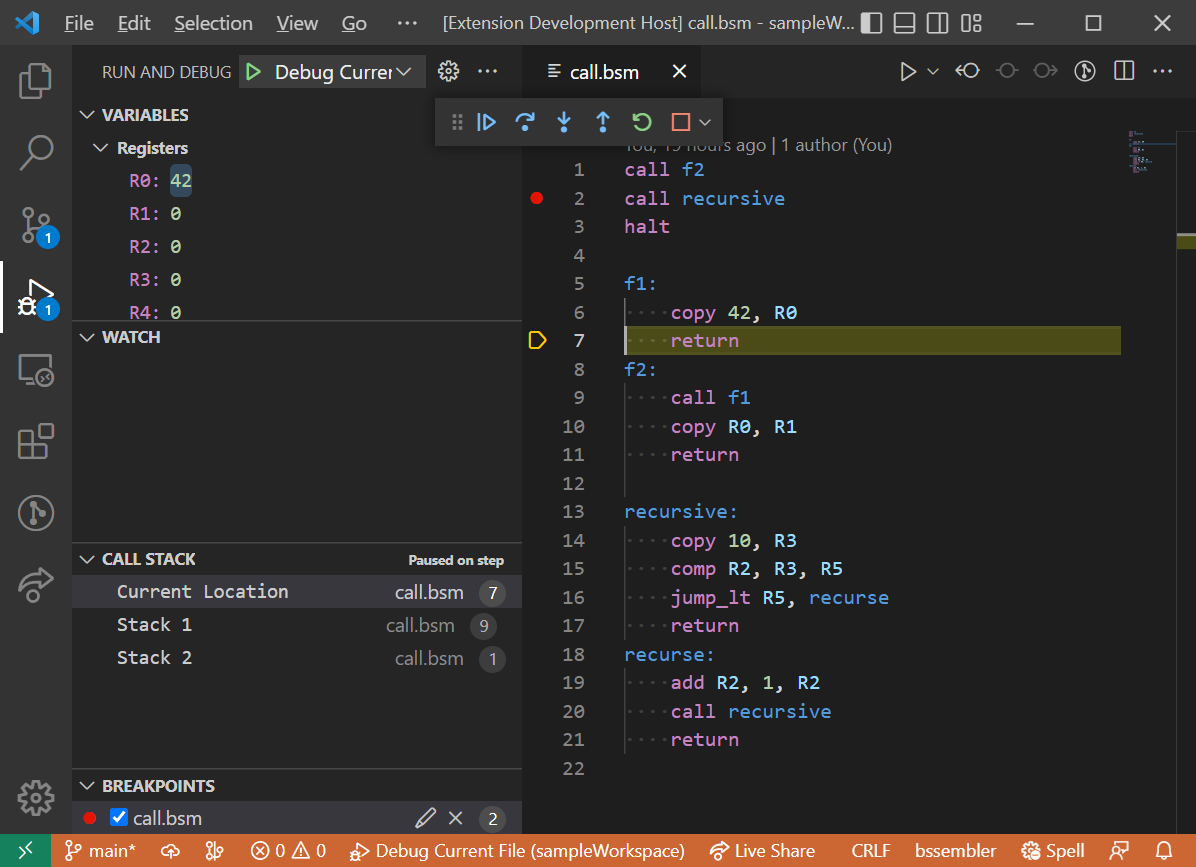
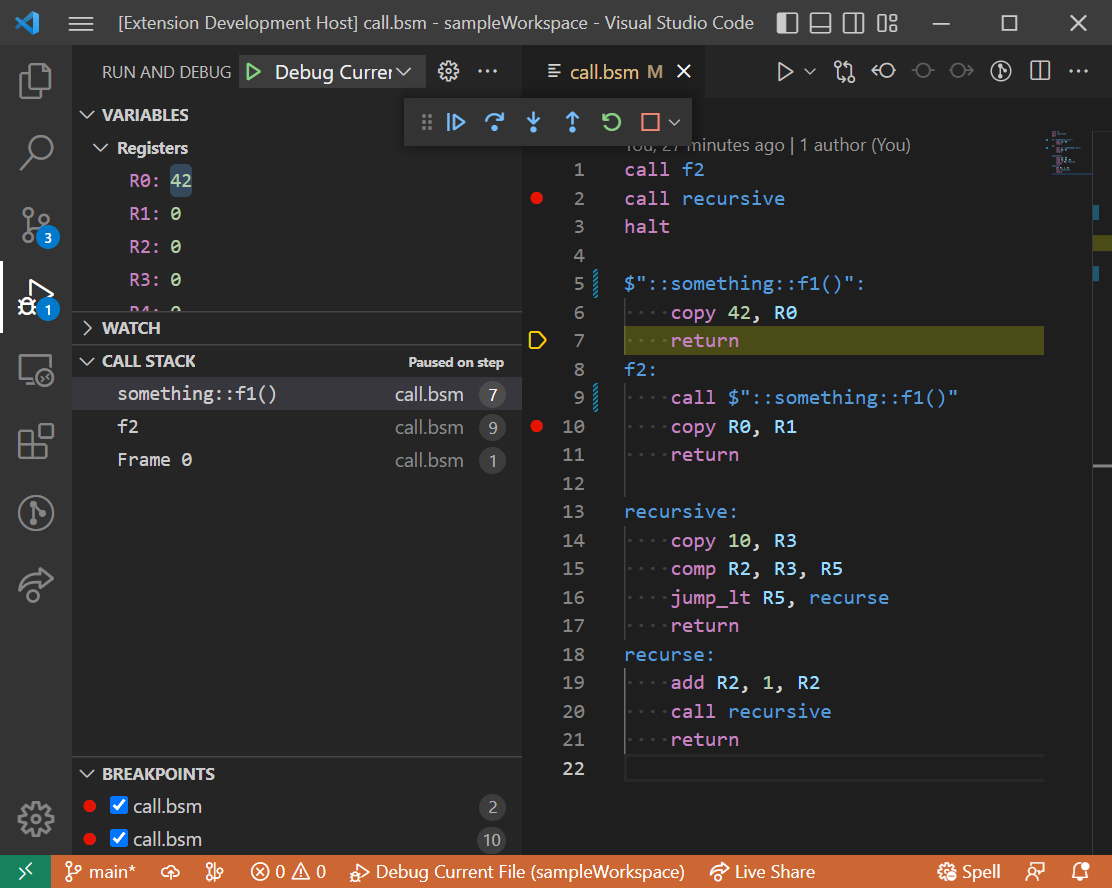
Added label names to call stack
* Demangling backseat function names like $"::namespace::f(U32)" to
  namespace::f(U32).

diff --git a/src/bssemblerRuntime.ts b/src/bssemblerRuntime.ts
@@ -5,6 +5,7 @@ import { createWriteStream } from 'fs';
 import { readFile } from 'fs/promises';
 import { Breaking, Continue, DebugConnection, Hello, HitBreakpoint, Pausing, BreakState, RemoveBreakpoints, SetBreakpoints, SetRegister, StartExecution, StepOne, Terminate } from './debugConnection';
 import { Readable } from 'stream';
+import { TextDecoder } from 'util';
 
 export interface FileAccessor {
     readFile(path: string): Promise<Uint8Array>;
@@ -38,6 +39,10 @@ class RuntimeBreakpoints {
 
 export class RuntimeLocation {
     constructor(public readonly path: string, public readonly line?: number) { }
+}
+
+export class RuntimeStackFrame {
+    constructor(public readonly line?: number, public readonly name?: string) { }
 }
 
 class LineToInstructionMapper {
@@ -79,6 +84,7 @@ export class BssemblerRuntime extends EventEmitter {
     private linesLoaded = false;
 
     private currentProgram?: string;
+    private currentLines?: string[];
     private currentLine?: number;
     private registers: number[] = [];
     private callStack: number[] = [];
@@ -135,8 +141,15 @@ export class BssemblerRuntime extends EventEmitter {
         return new RuntimeLocation(this.currentProgram ?? '', this.currentLine);
     }
 
-    public getCallStack(): Array<number | undefined> {
-        return this.callStack.map(location => this.lineMapper.convertInstructionToLine(location));
+    public getCallStack(): RuntimeStackFrame[] {
+        return [
+            ...this.callStack.map(location => {
+                const line = this.lineMapper.convertInstructionToLine(location);
+                const label = this.getCallLabel(line);
+                return new RuntimeStackFrame(line, label);
+            }),
+            new RuntimeStackFrame(this.currentLine),
+        ];
     }
 
     /**
@@ -161,6 +174,7 @@ export class BssemblerRuntime extends EventEmitter {
         const { fd: _mapFd, path: mapFilePath, cleanup: cleanupMapFile } = await tmpFile();
 
         try {
+            const programContent = this.fileAccessor.readFile(program);
             await this.bssemble(program, backseatPath, mapFilePath, bssemblerCommand);
             await this.readMapFile(mapFilePath);
             this.validateBreakpoints();
@@ -169,6 +183,7 @@ export class BssemblerRuntime extends EventEmitter {
             this.listenToConnectionEvents(debugConnection);
             this.initialiseDebugger(debugConnection, stopOnEntry);
             this.debugConnection = debugConnection;
+            this.currentLines = this.decodeSource(await programContent);
         } catch (error) {
             this.terminate();
             this.emulatorProcess = undefined;
@@ -191,8 +206,14 @@ export class BssemblerRuntime extends EventEmitter {
         return [...this.registers];
     }
 
-    public setRegister(index: number, value: number) {
+    public setRegister(name: string, value: number): boolean {
+        const index = this.matchRegister(name);
+        if (index === false) {
+            return false;
+        }
+
         this.debugConnection?.send(new SetRegister(index, value));
+        return !!this.debugConnection;
     }
 
     private async bssemble(program: string, backseatPath: string, mapFilePath: string, bssemblerCommand?: string): Promise<void> {
@@ -437,6 +458,47 @@ export class BssemblerRuntime extends EventEmitter {
                 setTimeout(() => lineCallback(buffer), 0);
             }
         });
+    }
+
+    private matchRegister(register: string): number | false {
+        const match = register.match(/^R(0|[1-9][0-9]*)$/i);
+        return match ? parseInt(match[1]) : false;
+    }
+
+    private decodeSource(content: Uint8Array): string[] {
+        // Adding empty line at the beginning, because lines are indexed starting at 1.
+        return ['', ...new TextDecoder().decode(content).split(/\r?\n/)];
+    }
+
+    private getCallLabel(line: number | undefined): string | undefined {
+        if (!line || !this.currentLines) {
+            return undefined;
+        }
+
+        if (line >= this.currentLines.length) {
+            return undefined;
+        }
+
+        const instruction = this.currentLines[line].trim();
+
+        if (!instruction.toLowerCase().startsWith('call ')) {
+            return undefined;
+        }
+
+        let label = instruction.substring('call '.length).trim();
+
+        // Filter out CallRegister and CallPointer opcodes.
+        if (this.matchRegister(label) !== false) {
+            return undefined;
+        }
+
+        // Demangle backseat function names.
+        const match = label.match(/^\$"::(.*)"$/);
+        if (match) {
+            label = match[1];
+        }
+
+        return label;
     }
 
     private sendEvent(event: string, ...args: any[]): void {

diff --git a/src/bssemblerDebug.ts b/src/bssemblerDebug.ts
@@ -231,18 +231,14 @@ export class BssemblerDebugSession extends LoggingDebugSession {
     protected stackTraceRequest(response: DebugProtocol.StackTraceResponse, args: DebugProtocol.StackTraceArguments): void {
         const location = this._runtime.getCurrentLocation();
         const source = this.createSource(location.path);
-        const line = location.line ? this.convertDebuggerLineToClient(location.line) : undefined;
-        const stackFrames = [
-            new StackFrame(0, "Current Location", source, line),
-        ];
 
         const callStack = this._runtime.getCallStack().reverse();
-        let i = 1;
-        for (const entryLine of callStack) {
-            const clientLine = entryLine ? this.convertDebuggerLineToClient(entryLine) : undefined;
-            stackFrames.push(new StackFrame(i, `Stack ${i}`, source, clientLine));
-            ++i;
-        }
+        const stackFrames = callStack.map((frame, i) => {
+            const clientLine = frame.line ? this.convertDebuggerLineToClient(frame.line) : undefined;
+            let name = i + 1 < callStack.length ? callStack[i + 1].name : 'Frame 0';
+            name = name ?? `Frame ${callStack.length - (i + 1)}`;
+            return new StackFrame(i, name, source, clientLine);
+        });
 
         response.body = {
             stackFrames,
@@ -274,15 +270,10 @@ export class BssemblerDebugSession extends LoggingDebugSession {
             return;
         }
 
-        const registerNumber = /^R(0|[1-9][0-9]*)$/i;
-        const match = args.name.match(registerNumber);
-        if (!match) {
+        const success = this._runtime.setRegister(args.name, parseInt(args.value));
+        if (!success) {
             return;
         }
-
-        const index = parseInt(match[1]);
-        const value = parseInt(args.value);
-        this._runtime.setRegister(index, value);
 
         response.body = {
             value: args.value,

diff --git a/CHANGELOG.md b/CHANGELOG.md
@@ -2,6 +2,13 @@
 
 All notable changes to the "vscode-backseat-debug" extension will be documented in this file.
 
+## [0.4.2] - 2022-10-10
+
+### Added
+
+* Showing label names in call stack.
+* Demangling backseat function names in call stack.
+
 ## [0.4.1] - 2022-10-10
 
 ### Added
